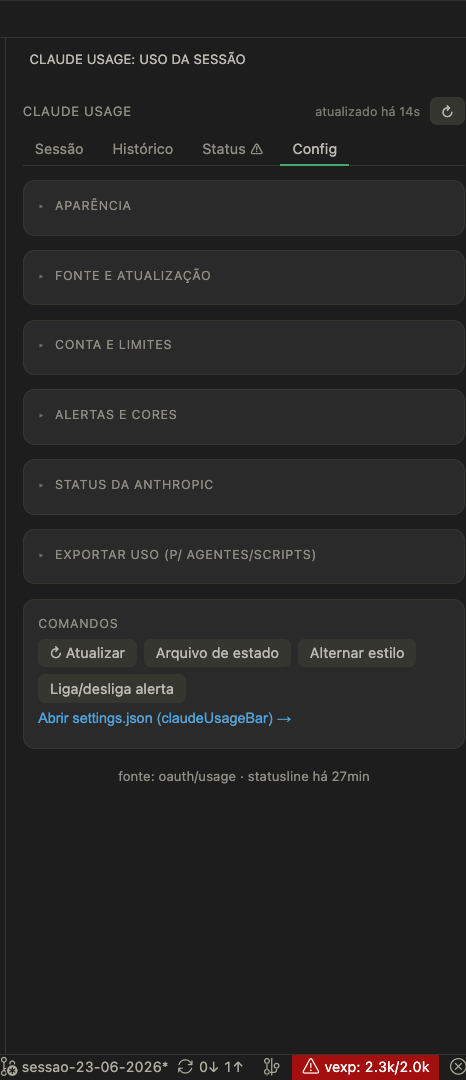
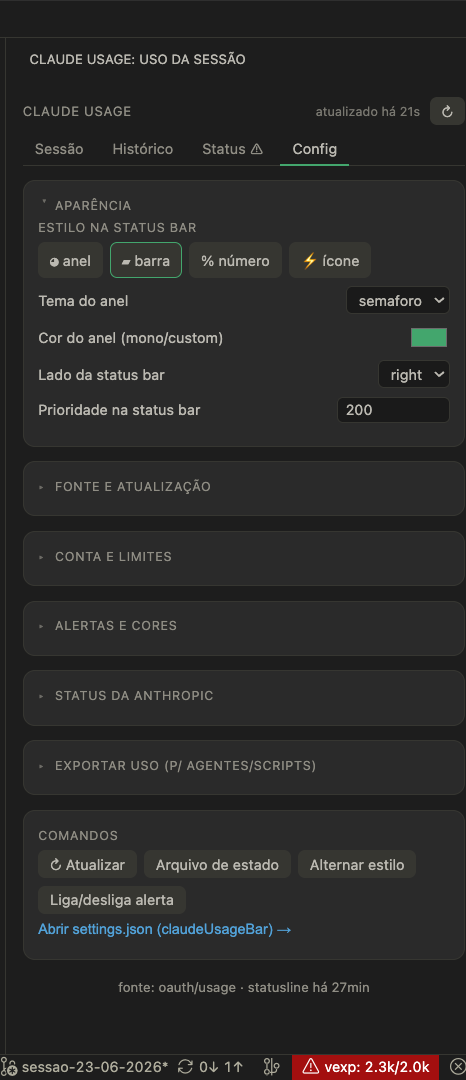
docs: usa a seção Aparência aberta no print da Config
Mostra o seletor visual de estilo + dropdowns e as demais seções recolhidas
(cards colapsáveis), em vez do print totalmente recolhido.

Claude-Session: https://claude.ai/code/session_01DNpS8ykHZ8eGMCDaZQyQwU

diff --git a/README.md b/README.md
@@ -34,7 +34,7 @@ Painel na aba **Sessão** (anel + barras de uso 5h/7d/contexto + fonte de dados)
 Aba **Config** com **seções colapsáveis** (toggles, cores, alertas) e **Histórico** com projetos da sessão:
 
 <p align="center">
-  <img src="https://raw.githubusercontent.com/bortolabs/claude-code-usage-bar/master/media/screenshots/03-config.png" width="360" alt="Aba Config reorganizada: cada seção é um card colapsável (Aparência, Fonte e atualização, Conta e limites, Alertas e cores, Status da Anthropic, Exportar uso), mais o bloco de Comandos">
+  <img src="https://raw.githubusercontent.com/bortolabs/claude-code-usage-bar/master/media/screenshots/03-config.png" width="360" alt="Aba Config: seção Aparência aberta com o seletor visual de estilo (anel/barra/número/ícone), tema e cor do anel, lado e prioridade; demais seções recolhidas em cards colapsáveis (Fonte, Conta, Alertas, Status, Exportar uso)">
   <img src="https://raw.githubusercontent.com/bortolabs/claude-code-usage-bar/master/media/screenshots/04-historico.png" width="360" alt="Aba Histórico: sparkline dos últimos dias e barras de consumo por projeto na sessão de 5h">
 </p>
 